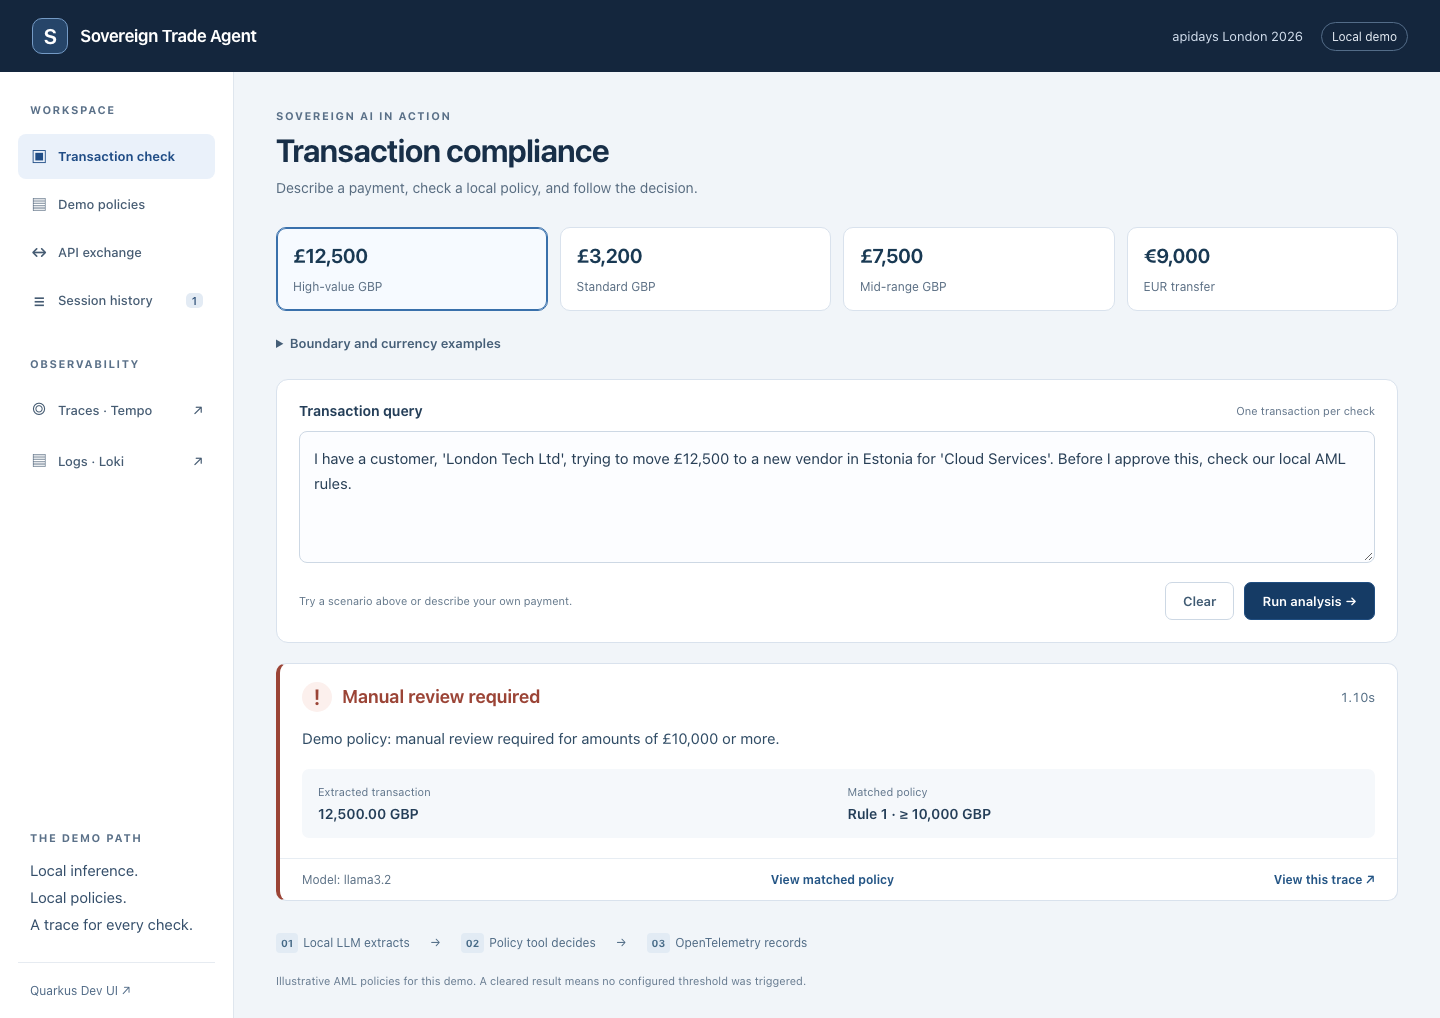
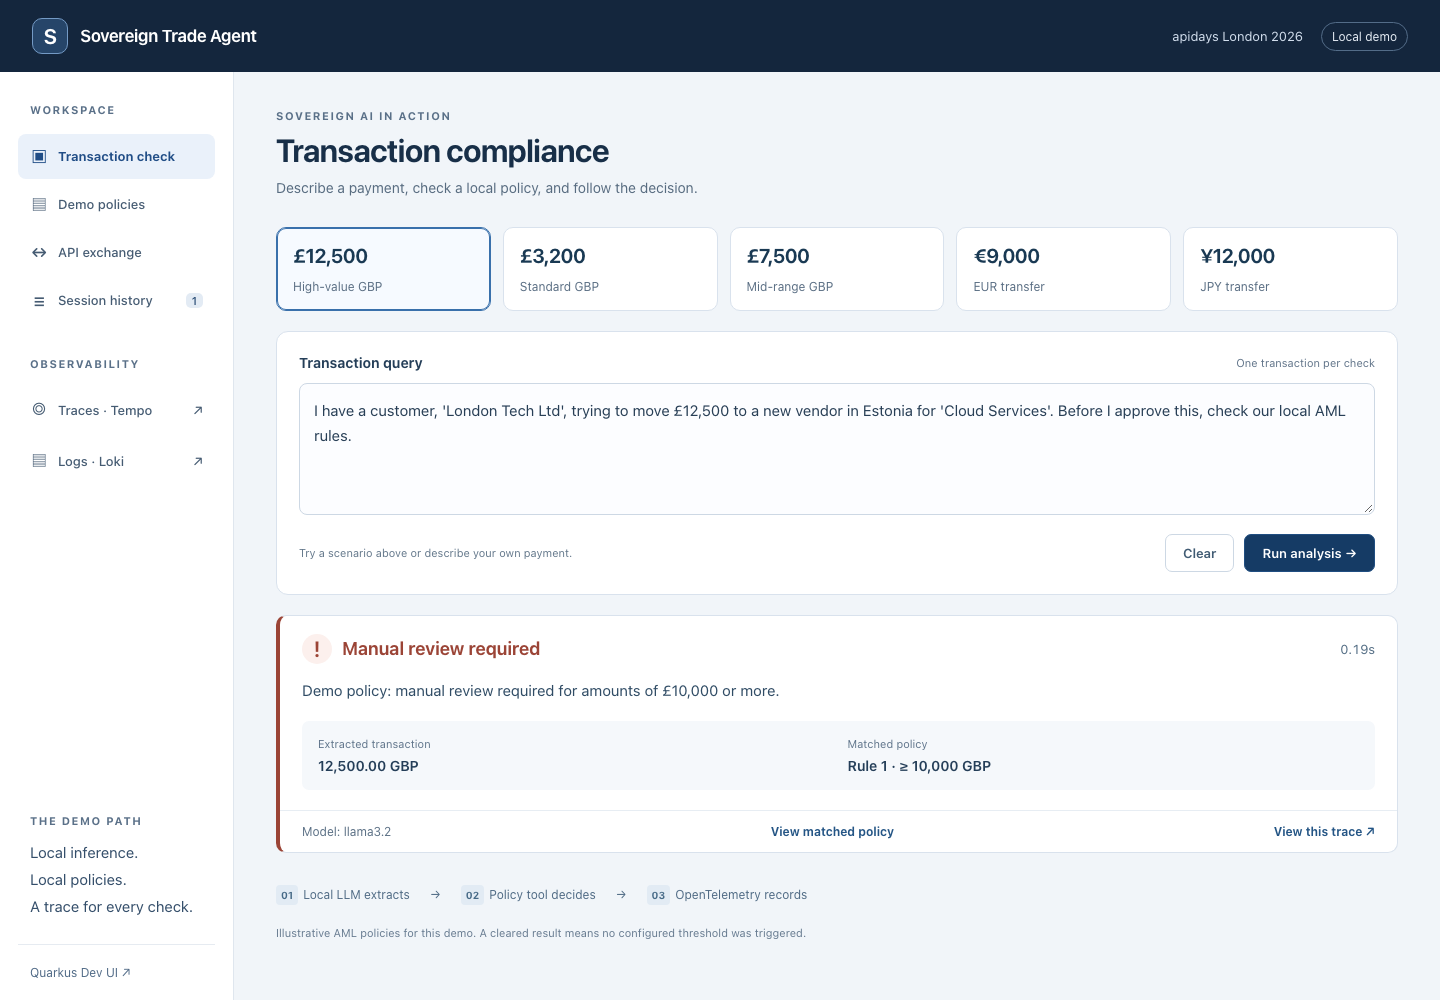
Simplify demo to five payment scenarios

diff --git a/src/main/webui/src/App.css b/src/main/webui/src/App.css
@@ -21,7 +21,7 @@ main { min-width: 0; width: 100%; max-width: 1360px; padding: 36px 42px 28px; }
 .page-header { margin-bottom: 28px; }
 .page-header h1 { margin: 6px 0 8px; font-size: clamp(25px, 2.5vw, 32px); font-weight: 650; letter-spacing: -.8px; color: #182f48; }
 .page-header > p:last-child { color: #586c80; font-size: 14px; line-height: 1.6; }
-.scenarios { display: grid; grid-template-columns: repeat(4, minmax(0, 1fr)); gap: 12px; margin-bottom: 20px; }
+.scenarios { display: grid; grid-template-columns: repeat(5, minmax(0, 1fr)); gap: 12px; margin-bottom: 20px; }
 .scenario { padding: 16px; background: #fff; border: 1px solid #d9e2ed; border-radius: 10px; text-align: left; cursor: pointer; }
 .scenario:hover:not(:disabled), .scenario.selected { border-color: #3970ab; background: #f6faff; box-shadow: inset 0 0 0 1px #3970ab; }
 .scenario-amount { font-size: 20px; font-weight: 650; letter-spacing: -.5px; color: #193953; }
@@ -74,10 +74,8 @@ button:disabled, textarea:disabled { opacity: .6; cursor: not-allowed; }
 .audit-query { margin: 16px 22px 0; padding: 14px; border-radius: 6px; background: #f5f8fb; color: #506b82; font-size: 13px; line-height: 1.7; }
 .text-button { border: 0; background: transparent; color: #245585; font: inherit; font-weight: 650; cursor: pointer; }
 .text-button:hover { text-decoration: underline; }
-.more-scenarios { margin: -4px 0 20px; color: #455e77; font-size: 13px; }
 summary { cursor: pointer; padding: 8px 0; font-weight: 600; }
 summary:focus-visible, .table-wrap:focus-visible { outline: 3px solid #5d96d8; outline-offset: 3px; }
-.extra-scenarios { grid-template-columns: repeat(3, minmax(0, 1fr)); margin: 10px 0 0; }
 .explanation-card, .message-card, .code-card { background: #fff; border: 1px solid #d9e2ed; border-radius: 10px; padding: 20px; margin-bottom: 20px; color: #304c65; font-size: 14px; line-height: 1.7; }
 .explanation-card h2, .code-heading h2 { font-size: 16px; color: #243e58; margin-bottom: 8px; }
 .message-card .button { margin-top: 12px; }
@@ -101,4 +99,4 @@ summary:focus-visible, .table-wrap:focus-visible { outline: 3px solid #5d96d8; o
 @media (max-width: 1100px) { main { padding: 30px 24px; } .sidebar { width: 210px; padding-inline: 12px; } .scenarios { grid-template-columns: repeat(2, minmax(0, 1fr)); } .input-hint { display: none; } }
 @media (max-width: 700px) { .topbar { height: auto; min-height: 70px; padding: 16px; flex-wrap: wrap; gap: 10px; } .brand { font-size: 16px; } .event { font-size: 11px; gap: 10px; } .app-layout { display: block; } .sidebar { width: 100%; padding: 12px; border-bottom: 1px solid #dfe6ee; border-right: 0; } .sidebar nav { display: flex; gap: 8px; } .sidebar .nav-label, .sidebar > .nav-item, .sidebar-note, .dev-link { display: none; } .nav-item { font-size: 12px; } main { padding: 24px 16px; } .query-card { padding: 16px; } .query-heading > span { display: none; } .scenario { padding: 12px; } .scenario-amount { font-size: 18px; } .decision-facts { grid-template-columns: 1fr; } .flow { gap: 12px; } .flow > span:nth-child(even) { display: none; } .decision-footer { align-items: flex-start; flex-wrap: wrap; } }
 @media (prefers-reduced-motion: reduce) { .spinner { animation: none; } }
-@media (max-width: 700px) { .sidebar nav { display: grid; grid-template-columns: repeat(2, minmax(0, 1fr)); gap: 4px; } .nav-item { min-width: 0; padding: 10px; } .extra-scenarios { grid-template-columns: 1fr; } .decision-heading { align-items: flex-start; } .decision-title { align-items: flex-start; } .verdict-icon { flex-shrink: 0; } .decision-title h2 { font-size: 16px; } .decision-footer { gap: 14px; } .explanation-card, .code-card { padding: 16px; } }
+@media (max-width: 700px) { .sidebar nav { display: grid; grid-template-columns: repeat(2, minmax(0, 1fr)); gap: 4px; } .nav-item { min-width: 0; padding: 10px; } .decision-heading { align-items: flex-start; } .decision-title { align-items: flex-start; } .verdict-icon { flex-shrink: 0; } .decision-title h2 { font-size: 16px; } .decision-footer { gap: 14px; } .explanation-card, .code-card { padding: 16px; } }

diff --git a/src/main/webui/src/App.jsx b/src/main/webui/src/App.jsx
@@ -8,8 +8,6 @@ const SCENARIOS = [
   { label: 'Standard GBP', amount: '£3,200', query: "Please verify a £3,200 GBP payment from 'Baker Street Consulting' to a domestic supplier for office furniture." },
   { label: 'Mid-range GBP', amount: '£7,500', query: 'A customer wants to send £7,500 GBP to a consulting firm in Dublin. Check if this triggers any AML rules.' },
   { label: 'EUR transfer', amount: '€9,000', query: 'Check AML compliance for a €9,000 EUR wire transfer from our Paris branch to a Frankfurt-based logistics company.' },
-  { label: 'Below GBP boundary', amount: '£9,999', query: 'Check a 9999 GBP payment to a domestic supplier.' },
-  { label: 'At GBP boundary', amount: '£10,000', query: 'Check a 10000 GBP payment to a domestic supplier.' },
   { label: 'JPY transfer', amount: '¥12,000', query: 'Check a 12000 JPY payment to a supplier in Tokyo.' },
 ]
 
@@ -154,16 +152,11 @@ export default function App() {
           {activeView === 'check' ? <>
             <div className="page-header"><p className="eyebrow">Sovereign AI in action</p><h1>Transaction compliance</h1><p>Describe a payment, check a local policy, and follow the decision.</p></div>
             <div className="scenarios" aria-label="Demo scenarios">
-              {SCENARIOS.slice(0, 4).map((scenario, index) => <button key={scenario.label} className={`scenario ${activeScenario === index ? 'selected' : ''}`} disabled={loading} onClick={() => loadScenario(index)} aria-pressed={activeScenario === index}>
+              {SCENARIOS.map((scenario, index) => <button key={scenario.label} className={`scenario ${activeScenario === index ? 'selected' : ''}`} disabled={loading} onClick={() => loadScenario(index)} aria-pressed={activeScenario === index}>
                 <span className="scenario-amount">{scenario.amount}</span>
                 <span className="scenario-label">{scenario.label}</span>
               </button>)}
             </div>
-            <details className="more-scenarios"><summary>Boundary and currency examples</summary><div className="scenarios extra-scenarios">
-              {SCENARIOS.slice(4).map((scenario, index) => <button key={scenario.label} className={`scenario ${activeScenario === index + 4 ? 'selected' : ''}`} disabled={loading} onClick={() => loadScenario(index + 4)} aria-pressed={activeScenario === index + 4}>
-                <span className="scenario-amount">{scenario.amount}</span><span className="scenario-label">{scenario.label}</span>
-              </button>)}
-            </div></details>
             <form onSubmit={handleSubmit} className="query-card">
               <div className="query-heading"><label htmlFor="query">Transaction query</label><span>One transaction per check</span></div>
               <textarea id="query" value={query} disabled={loading} maxLength={2000} rows={4} required placeholder="Describe an amount, currency, and payment context…" onChange={event => { setQuery(event.target.value); setActiveScenario(null); setResult(null) }} />

diff --git a/src/main/webui/tests/presentation.spec.js b/src/main/webui/tests/presentation.spec.js
@@ -13,8 +13,8 @@ test('reveals outcomes after analysis and shows the actual matched database rule
   await page.route('**/trade/analyze', route => route.fulfill({ json: result }))
   await page.route('**/trade/policies', route => route.fulfill({ json: rules }))
   await page.goto('/')
-  const scenarios = page.getByRole('button', { name: /High-value GBP|Standard GBP|Mid-range GBP|EUR transfer/ })
-  await expect(scenarios).toHaveCount(4)
+  const scenarios = page.getByRole('button', { name: /High-value GBP|Standard GBP|Mid-range GBP|EUR transfer|JPY transfer/ })
+  await expect(scenarios).toHaveCount(5)
   for (const scenario of await scenarios.all()) await expect(scenario).not.toContainText(/Cleared|Warning|Rejected|Manual review/)
   await page.getByRole('button', { name: /High-value GBP/ }).click()
   await page.getByRole('button', { name: /Run analysis/ }).click()
@@ -94,15 +94,16 @@ test('retries policy loading and preserves navigation on a narrow screen', async
   await page.screenshot({ path: test.info().outputPath('mobile-api.png'), fullPage: true })
 })
 
-test('the boundary and JPY examples submit their exact amounts and currencies', async ({ page }) => {
-  await page.route('**/trade/analyze', route => route.fulfill({ json: result }))
+test('the JPY scenario submits its currency and displays a review without a matched rule', async ({ page }) => {
+  await page.route('**/trade/analyze', route => route.fulfill({ json: {
+    ...result, decision: { verdict: 'REVIEW_REQUIRED', message: 'No local policy covers JPY.', amount: 12000, currency: 'JPY', ruleId: null, threshold: null },
+  } }))
   await page.goto('/')
-  await page.getByText('Boundary and currency examples', { exact: true }).click()
-  for (const [label, amount, currency] of [['Below GBP boundary', '9999', 'GBP'], ['At GBP boundary', '10000', 'GBP'], ['JPY transfer', '12000', 'JPY']]) {
-    await page.getByRole('button', { name: new RegExp(label) }).click()
-    const request = page.waitForRequest('**/trade/analyze')
-    await page.getByRole('button', { name: /Run analysis/ }).click()
-    expect((await request).postData()).toContain(`${amount} ${currency}`)
-    await expect(page.getByRole('article')).toBeVisible()
-  }
+  await page.getByRole('button', { name: /JPY transfer/ }).click()
+  const request = page.waitForRequest('**/trade/analyze')
+  await page.getByRole('button', { name: /Run analysis/ }).click()
+  expect((await request).postData()).toContain('12000 JPY')
+  await expect(page.getByRole('heading', { name: 'Review required', exact: true })).toBeVisible()
+  await expect(page.getByRole('article')).toContainText('No verified match')
+  await expect(page.getByRole('button', { name: 'View matched policy' })).toHaveCount(0)
 })

diff --git a/src/main/webui/tests/screenshots.spec.js b/src/main/webui/tests/screenshots.spec.js
@@ -11,11 +11,9 @@ test('capture the live demo and session history', async ({ page }) => {
   const cases = [
     ['High-value GBP', 'Manual review required'], ['Standard GBP', 'Cleared'],
     ['Mid-range GBP', 'Warning'], ['EUR transfer', 'Cleared'],
-    ['Below GBP boundary', 'Warning'], ['At GBP boundary', 'Manual review required'],
     ['JPY transfer', 'Review required'],
   ]
   for (const [scenario, verdict] of cases) {
-    if (scenario === 'Below GBP boundary') await page.getByText('Boundary and currency examples', { exact: true }).click()
     await page.getByRole('button', { name: new RegExp(scenario) }).click()
     await page.getByRole('button', { name: /Run analysis/ }).click()
     await expect(page.getByRole('heading', { name: verdict, exact: true })).toBeVisible({ timeout: 40000 })
@@ -46,7 +44,7 @@ test('capture the live demo and session history', async ({ page }) => {
   await tracePage.screenshot({ path: resolve('../../../assets/tempo.png'), fullPage: true })
   await tracePage.close()
   await page.getByRole('button', { name: /Session history/ }).click()
-  await expect(page.getByRole('article', { name: 'Analysis result' })).toHaveCount(7)
+  await expect(page.getByRole('article', { name: 'Analysis result' })).toHaveCount(5)
   await page.screenshot({ path: resolve('../../../assets/session_history.png'), fullPage: true })
   await page.getByRole('button', { name: /Transaction check/ }).click()
   await page.setViewportSize({ width: 390, height: 844 })

diff --git a/scripts/check-demo.py b/scripts/check-demo.py
@@ -11,8 +11,6 @@ CASES = [
     ("Standard GBP", "Please verify a £3,200 GBP payment from 'Baker Street Consulting' to a domestic supplier for office furniture.", "CLEARED", 3200, "GBP", 3),
     ("Mid-range GBP", "A customer wants to send £7,500 GBP to a consulting firm in Dublin. Check if this triggers any AML rules.", "WARNING", 7500, "GBP", 2),
     ("EUR transfer", "Check AML compliance for a €9,000 EUR wire transfer from our Paris branch to a Frankfurt-based logistics company.", "CLEARED", 9000, "EUR", 5),
-    ("Below GBP boundary", "Check a 9999 GBP payment to a domestic supplier.", "WARNING", 9999, "GBP", 2),
-    ("At GBP boundary", "Check a 10000 GBP payment to a domestic supplier.", "REJECTED", 10000, "GBP", 1),
     ("JPY transfer", "Check a 12000 JPY payment to a supplier in Tokyo.", "REVIEW_REQUIRED", 12000, "JPY", None),
 ]
 parser = argparse.ArgumentParser(description=__doc__)

diff --git a/README.md b/README.md
@@ -39,8 +39,7 @@ Dev Services starts PostgreSQL and Grafana LGTM, and reuses the local Ollama ins
 
 ![Live transaction check with extracted amount, matched rule, and trace link](assets/web_ui.png)
 
-- Four preset scenarios for quick demo cycling, with verdicts revealed after analysis.
-- Expand **Boundary and currency examples** for £9,999, £10,000, and a 12,000 JPY payment.
+- Five preset scenarios for quick demo cycling, with verdicts revealed after analysis: three GBP payments, one EUR payment, and one JPY payment without policy coverage.
 - Structured verdicts from the policy tool, displayed immediately without a typing delay.
 - Extracted amount, currency, matched rule, model name, and server duration.
 - **View this trace** opens the specific request in Grafana Tempo.
@@ -57,19 +56,20 @@ Dev Services starts PostgreSQL and Grafana LGTM, and reuses the local Ollama ins
 
 The two review labels distinguish a matched policy requiring manual review (`REJECTED`) from an unverified transaction or missing policy coverage (`REVIEW_REQUIRED`). These API verdict codes remain unchanged for existing clients.
 
-![Session history from seven real local model checks](assets/session_history.png)
+![Session history from five real local model checks](assets/session_history.png)
 
 Session history lives in browser memory and clears on refresh. It is a demo convenience, not a durable audit store. A [mobile screenshot](assets/mobile_ui.png) shows the narrow layout.
 
 ## A short presentation sequence
 
-1. **Before presenting:** start the app, wait for Grafana, then run `python3 scripts/check-demo.py --rounds 1`. This checks all seven scenarios and warms the model.
+1. **Before presenting:** start the app, wait for Grafana, then run `python3 scripts/check-demo.py --rounds 1`. This checks all five scenarios and warms the model.
 2. **Run one payment:** select High-value GBP (£12,500). Show the extracted amount, **Manual review required**, and rule 1. Explain that no payment is executed.
 3. **Show the evidence:** click **View matched policy** to see the actual PostgreSQL rule. The model extracts transaction details; the policy tool determines the outcome.
-4. **Cross a boundary:** return to Transaction check, expand **Boundary and currency examples**, and run £9,999 followed by £10,000. The outcome changes from Warning to Manual review required at the inclusive threshold.
-5. **Show the limit:** run JPY transfer. No configured policy covers JPY, so the app returns Review required with no matched rule.
-6. **Reuse the API:** open API exchange to show the submitted request and JSON response. Open Swagger UI and run the same `POST /trade/analyze` request from another client.
-7. **Follow the execution:** return to the result and click **View this trace**. Show the local model call and `checkAMLStatus` span with its amount and currency attributes. Finish with Session history.
+4. **Compare outcomes:** return to Transaction check and run Standard GBP, Mid-range GBP, and EUR transfer. Then run JPY transfer: no configured policy covers JPY, so the app returns Review required with no matched rule.
+5. **Reuse the API:** open API exchange to show the submitted request and JSON response. Open Swagger UI and run the same `POST /trade/analyze` request from another client.
+6. **Follow the execution:** return to the result and click **View this trace**. Show the local model call and `checkAMLStatus` span with its amount and currency attributes. Finish with Session history.
+
+To demonstrate an exact policy boundary during questions, edit the transaction query to compare £9,999 and £10,000. The inclusive GBP threshold is also covered by backend tests.
 
 Presentation message: **Natural language enters through an API; local policies determine the outcome; a trace shows the execution.** OpenAPI describes the HTTP endpoints. The agent invokes the policy tool as a Java method through `@ToolBox`; it does not discover tools from an OpenAPI document. Inference uses Ollama's HTTP API.
 
@@ -164,7 +164,7 @@ Run the repeatable API check to measure your own hardware:
 python3 scripts/check-demo.py --rounds 3
 ```
 
-It verifies all seven exact UI prompts, amounts, currencies, verdicts, and matched rule IDs, including the absence of a match for JPY. The first round is excluded from the reported warm median; subsequent rounds can benefit from Ollama's prompt cache. These timings are a rehearsal measurement, not a general model benchmark.
+It verifies all five exact UI prompts, amounts, currencies, verdicts, and matched rule IDs, including the absence of a match for JPY. The first round is excluded from the reported warm median; subsequent rounds can benefit from Ollama's prompt cache. These timings are a rehearsal measurement, not a general model benchmark.
 
 Local rehearsal on 14 September 2026, using the original four presets over three rounds: **llama3.2 passed all 12 checks**, with a warm median of **0.152 seconds** (maximum 0.165 seconds). We also tried the smaller **qwen3:0.6b** with reasoning disabled. It returned quickly but failed all 12 checks by not producing valid tool calls, so llama3.2 remains the default. Results depend on hardware, model version, and cache state.
 
@@ -202,7 +202,7 @@ Backend tests cover policy boundaries, invalid inputs, tool-result handling, liv
 ./mvnw test
 ```
 
-Browser tests require Node.js 20+ and npm on your PATH. Browser regression tests use mocked API responses to check structured verdicts, locked inputs, timeouts, retry, history, policy matching, API request/response pairing, boundary examples, and narrow layouts without invoking the LLM:
+Browser tests require Node.js 20+ and npm on your PATH. Browser regression tests use mocked API responses to check structured verdicts, locked inputs, timeouts, retry, history, policy matching, API request/response pairing, unsupported currency handling, and narrow layouts without invoking the LLM:
 
 ```bash
 cd src/main/webui
